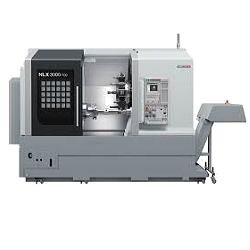
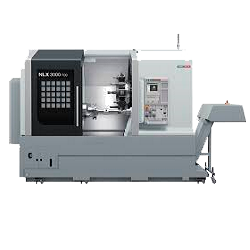
С последних изображений убраны фоны. В kim теперь ссылка на png вместо jpg.

diff --git a/static/test/test.html b/static/test/test.html
@@ -1,167 +1,5 @@
-<html>
-<head>
-    <link rel="stylesheet" type="text/css" href="../../static/css/userscontrol.css"/>
-</head>
-
-<body>
-<script src="https://ajax.googleapis.com/ajax/libs/jquery/1.11.1/jquery.min.js"></script>
-<table id="datatable">
-    <thead>
-    <tr>
-        <th>Станки</th>
-        <th>Работа</th>
-        <th>Нагрузка</th>
-        <th>Пауза</th>
-        <th>Авария</th>
-        <th>Выключен</th>
-        <th>Ручной режим</th>
-    </tr>
-    </thead>
-    <tbody style="margin-top: 100px">
-    <tr class="hit">
-        <td> УФ5220 </td>
-        <td id="id_uf5220_nagruzka"></td>
-        <td> ********* + </td>
-        <td> role[index] + </td>
-        <td> enabled[index] + </td>
-        <td> mail[index] </td>
-        <td> mail[index] </td>
-    </tr>
-    <tr class="hit">
-        <td> Прогресс </td>
-        <td> nagruzka_progress </td>
-        <td> ********* + </td>
-        <td> role[index] + </td>
-        <td> enabled[index] + </td>
-        <td> mail[index] </td>
-        <td> mail[index] </td>
-    </tr>
-    <tr class="hit">
-        <td> ctx510_1 </td>
-        <td> username[index] + </td>
-        <td> ********* + </td>
-        <td> role[index] + </td>
-        <td> enabled[index] + </td>
-        <td> mail[index] </td>
-        <td> mail[index] </td>
-    </tr>
-    <tr class="hit">
-        <td> SK50 </td>
-        <td> username[index] + </td>
-        <td> ********* + </td>
-        <td> role[index] + </td>
-        <td> enabled[index] + </td>
-        <td> mail[index] </td>
-        <td> mail[index] </td>
-    </tr>
-    <tr class="hit">
-        <td> APEC </td>
-        <td> username[index] + </td>
-        <td> ********* + </td>
-        <td> role[index] + </td>
-        <td> enabled[index] + </td>
-        <td> mail[index] </td>
-        <td> mail[index] </td>
-    </tr>
-    <tr class="hit">
-        <td> DMU50 #4 </td>
-        <td> username[index] + </td>
-        <td> ********* + </td>
-        <td> role[index] + </td>
-        <td> enabled[index] + </td>
-        <td> mail[index] </td>
-        <td> mail[index] </td>
-    </tr>
-    <tr class="hit">
-        <td> DMU50 #4 </td>
-        <td> username[index] + </td>
-        <td> ********* + </td>
-        <td> role[index] + </td>
-        <td> enabled[index] + </td>
-        <td> mail[index] </td>
-        <td> mail[index] </td>
-    </tr>
-    <tr class="hit">
-        <td> CTX410 #2 </td>
-        <td> username[index] + </td>
-        <td> ********* + </td>
-        <td> role[index] + </td>
-        <td> enabled[index] + </td>
-        <td> mail[index] </td>
-        <td> mail[index] </td>
-    </tr>
-    <tr class="hit">
-        <td> CTX510 #2 </td>
-        <td> username[index] + </td>
-        <td> ********* + </td>
-        <td> role[index] + </td>
-        <td> enabled[index] + </td>
-        <td> mail[index] </td>
-        <td> mail[index] </td>
-    </tr>
-    <tr class="hit">
-        <td> CTX510 #4 </td>
-        <td> username[index] + </td>
-        <td> ********* + </td>
-        <td> role[index] + </td>
-        <td> enabled[index] + </td>
-        <td> mail[index] </td>
-        <td> mail[index] </td>
-    </tr>
-    </tbody>
-</table>
-<br/>
-
-<br/>
-<br/>
-<button id="insert1">Insert value in 4rd cell in 1st row</button>
-<button id="insert2">Insert value in 2nd cell in 2nd row</button>
-
-<script>
-    $('#insert1').on('click', function(){
-
-        var thirdCell = $('#datatable >tbody').find('tr:first > td')[2];
-
-        $(thirdCell).text('100');
-
-    });
-
-    $('#insert2').on('click', function(){
-
-        var secondRow = $('#datatable >tbody').find('tr')[1];
-        var secondCell = $(secondRow).find('td')[1];
-
-        $(secondCell).text('200');
-
-    });
-</script>
-</body>
-</html>ф
-
-
-table[1].cells[5].innerHTML = off_uf5220;
-table[2].cells[5].innerHTML = off_progress;
-table[3].cells[5].innerHTML = off_ctx510_1;
-table[4].cells[5].innerHTML = off_sk50;
-table[5].cells[5].innerHTML = off_apec;
-table[6].cells[5].innerHTML = off_dmu50_3;
-table[7].cells[5].innerHTML = off_dmu50_4;
-table[8].cells[5].innerHTML = off_ctx310_2;
-table[9].cells[5].innerHTML = off_ctx510_2;
-table[10].cells[5].innerHTML = off_ctx510_3;
-
-var ctx510_1_koef = (work_ctx510_1 + nagruzka_ctx510_1 + pause_ctx510_1 + avar_ctx510_1 + off_ctx510_1)/100;
-
-
-var uvf_1_1_koef = (work_uvf_1_1 + nagruzka_uvf_1_1 + pause_uvf_1_1 + avar_uvf_1_1 + off_uvf_1_1)/100;
-var uvf_1_2_koef = (work_uvf_1_2 + nagruzka_uvf_1_2 + pause_uvf_1_2 + avar_uvf_1_2 + off_uvf_1_2)/100;
-var ntx1000_koef = (work_ntx1000 + nagruzka_ntx1000 + pause_ntx1000 + avar_ntx1000 + off_ntx1000)/100;
-var nlx3000_koef = (work_nlx3000 + nagruzka_nlx3000 + pause_nlx3000 + avar_nlx3000 + off_nlx3000)/100;
-var gamma2000_koef = (work_gamma2000 + nagruzka_gamma2000 + pause_gamma2000 + avar_gamma2000 + off_gamma2000)/100;
-var ctx650_koef = (work_ctx650 + nagruzka_ctx650 + pause_ctx650 + avar_ctx650 + off_ctx650)/100;
-var dmf260_koef = (work_dmf260 + nagruzka_dmf260 + pause_dmf260 + avar_dmf260 + off_dmf260)/100;
-var dmu50_1_koef = (work_dmu50_1 + nagruzka_dmu50_1 + pause_dmu50_1 + avar_dmu50_1 + off_dmu50_1)/100;
-var dmu50_2_koef = (work_dmu50_2 + nagruzka_dmu50_2 + pause_dmu50_2 + avar_dmu50_2 + off_dmu50_2)/100;
-var dmc1035_koef = (work_dmc1035 + nagruzka_dmc1035 + pause_dmc1035 + avar_dmc1035 + off_dmc1035)/100;
-var ctx310_1_koef = (work_ctx310_1 + nagruzka_ctx310_1 + pause_ctx310_1 + avar_ctx310_1 + off_ctx310_1)/100;
-var ctx510_1_koef = (work_ctx510_1 + nagruzka_ctx510_1 + pause_ctx510_1 + avar_ctx510_1 + off_ctx510_1)/100;
+var faccin_2_work_sum = [[${faccin_2_work}]];
+var faccin_2_pass_sum = [[${faccin_2_pass}]];
+var faccin_2_fail_sum = [[${faccin_2_fail}]];
+var faccin_2_avar_sum = [[${faccin_2_avar}]];
+var  faccin_2_nagruzka_sum = [[${faccin_2_nagruzka}]];

diff --git a/templates/kim.html b/templates/kim.html
@@ -234,7 +234,7 @@
     <div style="width: 100%;   margin: 2%;">
       <div class="img" style="float: left;"> <!--Вставляем изображение станка 1-->
         <div class="parent_image">
-          <img src="images/crystal_apex.jpg" class="stanok_img"/>
+          <img src="images/crystal_apex.png" class="stanok_img"/>
           <figcaption  style="margin: 1.5%; font-weight: bold; font-size: 150%; text-align: center">CRYSTA-Apex S9168</figcaption>
           <div>
             <a style="text-decoration: none; float: left" class="icon_mesto" href="mesto/mesto" onclick="crystal_apex (); window.open(this.href, '', 'scrollbars=1,height='+Math.min(920, screen.availHeight)+',width='+Math.min(920, screen.availWidth)); return false;"><div class='label_mesto'>Место</div></a>

diff --git a/templates/kim_month.html b/templates/kim_month.html
@@ -226,7 +226,7 @@
     <div style="width: 100%;   margin: 2%;">
       <div class="img"  style="float: left;"> <!--Вставляем изображение станка 1-->
         <div class="parent_image">
-          <img src="images/crystal_apex.jpg" class="stanok_img"/>
+          <img src="images/crystal_apex.png" class="stanok_img"/>
           <figcaption  style="margin: 1.5%; font-weight: bold; font-size: 150%; text-align: center">CRYSTA-Apex S9168</figcaption>
           <div>
             <a style="text-decoration: none; float: left" class="icon_mesto" href="mesto/mesto" onclick="crystal_apex(); window.open(this.href, '', 'scrollbars=1,height='+Math.min(920, screen.availHeight)+',width='+Math.min(920, screen.availWidth)); return false;"><div class='label_mesto'>Место</div></a>

diff --git a/static/js/mesto.js b/static/js/mesto.js
@@ -177,7 +177,7 @@ function dmg_ctx510_4 (){
 function crystal_apex (){
     mar_top = -145;
     mar_left = 680;
-    bground = 'url(../images/crystal_apex.jpg) no-repeat';
+    bground = 'url(../images/crystal_apex.png) no-repeat';
     place_img = "../images/meh_ceh.png";
     size = 40;
 
